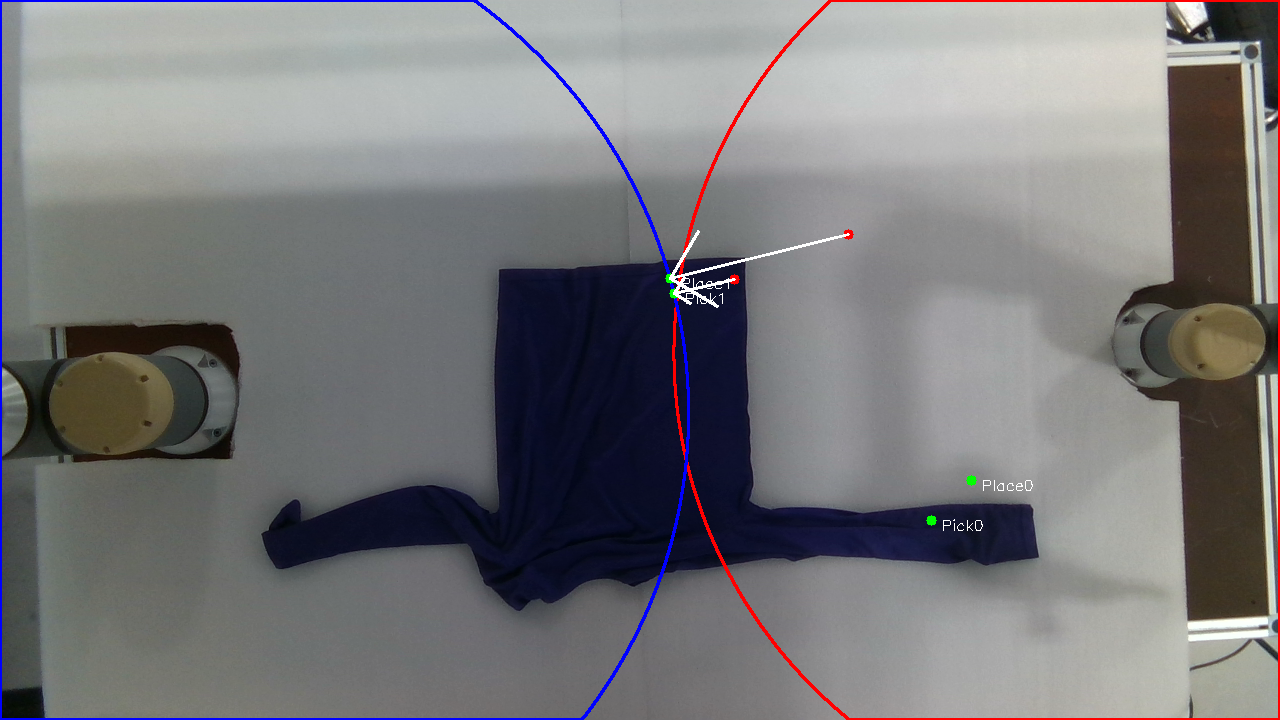
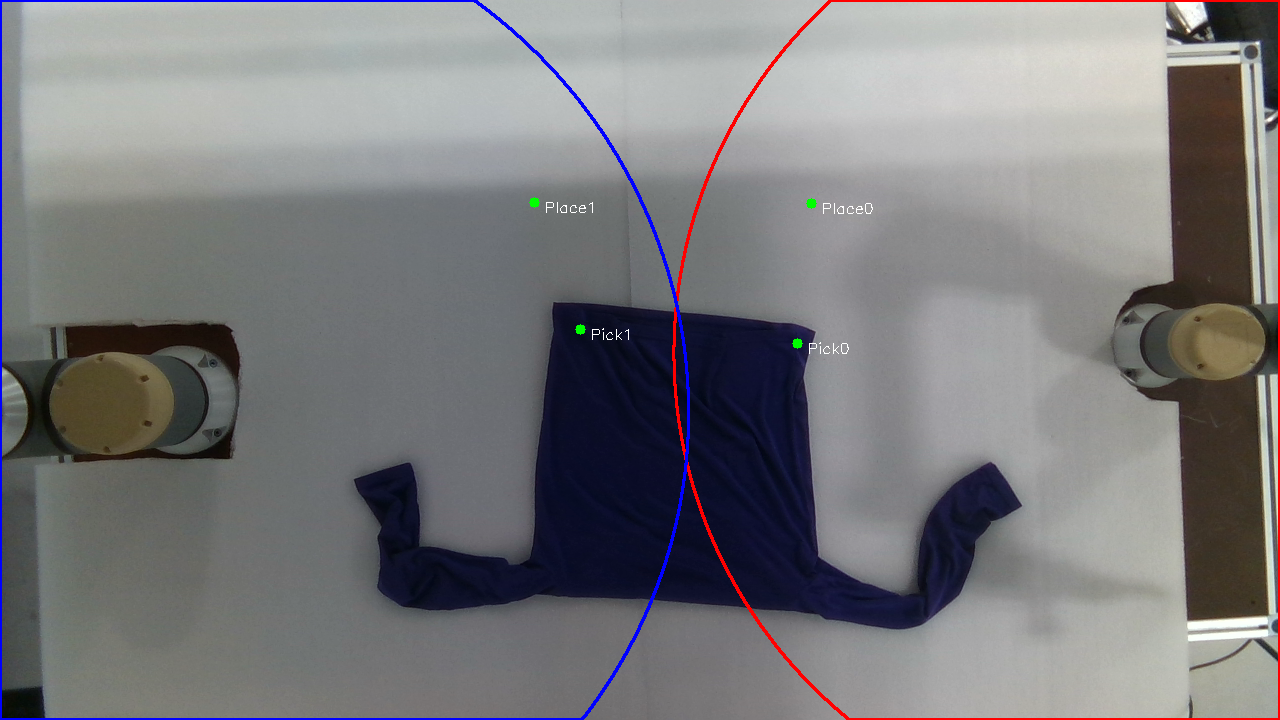
the whole pipeline works

diff --git a/real_robot/robot/dual_arm_arena.py b/real_robot/robot/dual_arm_arena.py
@@ -370,10 +370,10 @@ class DualArmArena(Arena):
         # --- Step 3: Execute robot skill ---
         if action_type == 'norm-pixel-pick-and-place':
             self.pick_and_place_skill.reset()
-            self.pick_and_place_skill.step(points_executed)
+            self.pick_and_place_skill.step(points_executed.copy())
         elif action_type == 'norm-pixel-pick-and-fling':
             self.pick_and_fling_skill.reset()
-            self.pick_and_fling_skill.step(points_executed)
+            self.pick_and_fling_skill.step(points_executed.copy())
         elif action_type == 'no-operation':
             pass
         
@@ -386,7 +386,7 @@ class DualArmArena(Arena):
         # --- Step 4: Capture new state ---
         self.info = self._get_info()
 
-        applied_action = (points_executed.reshape(-1, 2) - np.array([self.x1, self.y1]))/self.crop_size * 2 - 1
+        applied_action = (1.0*points_executed.reshape(-1, 2) - np.array([self.x1, self.y1]))/self.crop_size * 2 - 1
         self.info['applied_action'] = {
             action_type: applied_action.flatten()
         }

diff --git a/real_robot/robot/pixel_based_primitive_env_logger.py b/real_robot/robot/pixel_based_primitive_env_logger.py
@@ -1,7 +1,6 @@
 import os
 import cv2
 import numpy as np
-# from ..video_logger import VideoLogger
 import matplotlib.pyplot as plt
 
 from real_robot.utils.draw_utils import *
@@ -23,9 +22,6 @@ class PixelBasedPrimitiveEnvLogger(VideoLogger):
             robot1_masks = [info["observation"]["robot1_mask"] for info in result["information"]]
         
         actions = result["actions"]
-        # picker_traj = [info["observation"]["picker_norm_pixel_pos"]
-        #                for info in result["information"]]  # [T][2,2]
-
         H, W = 512, 512
 
         if filename is None:

diff --git a/real_robot/utils/transform_utils.py b/real_robot/utils/transform_utils.py
@@ -4,7 +4,7 @@ from real_robot.utils.camera_utils import intrinsic_to_params
 import cv2
 
 GRIPPER_OFFSET_UR5e = 0.05 #To calibrate: This has to be accurate
-GRIPPER_OFFSET_UR16e = 0 #To calibrate: This has to be accurate
+GRIPPER_OFFSET_UR16e = -0.01 #To calibrate: This has to be accurate
 SURFACE_HEIGHT = 0.04 #This has to be accurate
 FLING_LIFT_DIST = 0.1
 

diff --git a/real_robot/utils/draw_utils.py b/real_robot/utils/draw_utils.py
@@ -22,8 +22,8 @@ PRIMITIVE_COLORS = {
 # Normalized → pixel coordinates
 # -------------------------------
 def norm_to_px(v, W, H):
-    x = int((v[0] + 1) * 0.5 * W)
-    y = int((v[1] + 1) * 0.5 * H)
+    x = int((v[1] + 1) * 0.5 * W)
+    y = int((v[0] + 1) * 0.5 * H)
     return x, y
 
 def apply_workspace_shade(rgb, mask, color, alpha=0.35):
